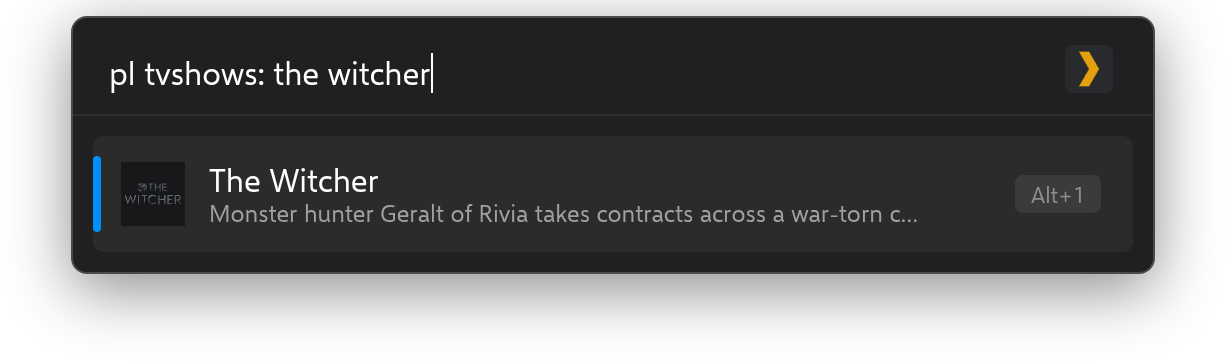
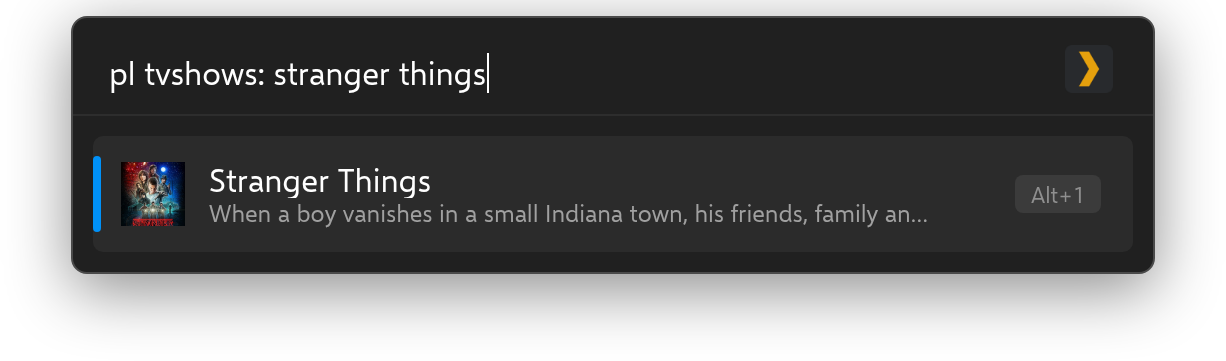
Use Stranger Things for the TV library screenshot
Wikipedia has no poster for The Witcher, only its logo, which didn't read as a
Plex result icon.

Changed region(s): [[0.093, 0.4266, 0.7439, 0.6399], [0.217, 0.1524, 0.4029, 0.2742]]

diff --git a/docs/flow-render/fetch_posters.py b/docs/flow-render/fetch_posters.py
@@ -32,15 +32,14 @@ POSTERS = {
     "cars": "Cars (film)",
     "cars-2": "Cars 2",
     "cars-3": "Cars 3",
-    "the-witcher-logo": "The Witcher (TV series)",
+    # TV series pages only have logos, so use a season page's poster
+    "stranger-things": "Stranger Things season 1",
 }
 # Plex shows automatic collections as a mosaic of their films' posters
 COLLECTIONS = {
     "mi-collection": ["mi", "mi-2", "mi-ghost-protocol", "mi-fallout"],
     "toy-story-collection": ["toy-story", "toy-story-2", "toy-story-3", "toy-story-logo"],
 }
-# no poster on Wikipedia, so show the logo on a dark tile
-LOGO_TILES = {"the-witcher": "the-witcher-logo"}
 
 
 def get(url: str) -> bytes:
@@ -83,12 +82,6 @@ def main() -> None:
         for index, member in enumerate(members):
             mosaic.paste(square(images[member], half), ((index % 2) * half, (index // 2) * half))
         mosaic.save(ICONS / f"{slug}.png")
-    for slug, logo_slug in LOGO_TILES.items():
-        logo = images[logo_slug].convert("RGBA")
-        logo.thumbnail((SIZE - 16, SIZE - 16))
-        tile = Image.new("RGBA", (SIZE, SIZE), (24, 24, 27, 255))
-        tile.alpha_composite(logo, ((SIZE - logo.width) // 2, (SIZE - logo.height) // 2))
-        tile.save(ICONS / f"{slug}.png")
     print(f"Saved {len(list(ICONS.glob('*.png')))} icons to {ICONS}")
 
 

diff --git a/README.md b/README.md
@@ -45,10 +45,10 @@ pl movies: cars
 ![Plexy searching the Movies library for "cars"](.github/assets/library-filter.png)
 
 ```
-pl tvshows: the witcher
+pl tvshows: stranger things
 ```
 
-![Plexy searching the TV Shows library for "the witcher"](.github/assets/library-filter-tv.png)
+![Plexy searching the TV Shows library for "stranger things"](.github/assets/library-filter-tv.png)
 
 Selecting a result opens it in Plex Web.
 
